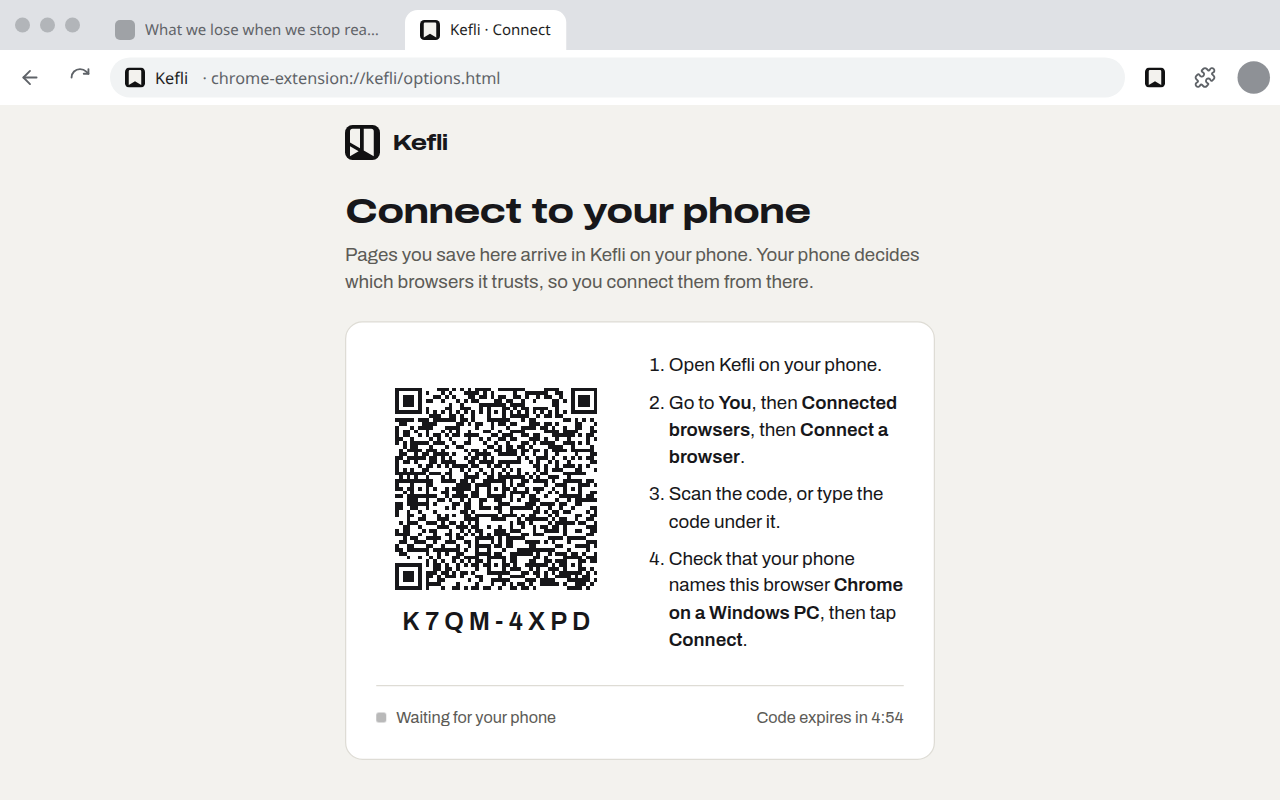
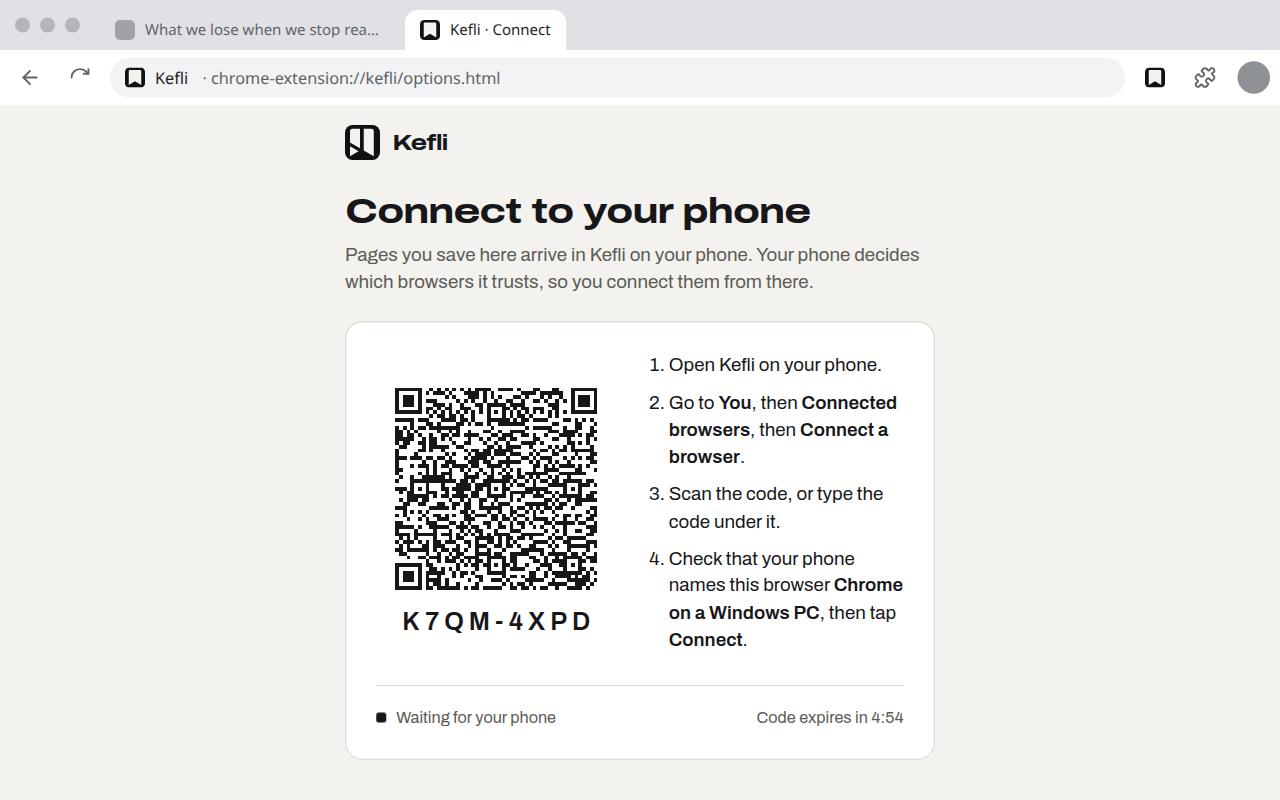
Edge versions of the store screenshots, and a screenshot script that can't hang
store-screenshots.mjs --edge draws the four shots with Edge's details: the
extension:// address, Edge on a Windows PC, and Edge's link menu. Each tab
now comes to the front at once, every animation is finished and the
mockup's timers stopped before the capture, and a shot that hangs is
taken again in a fresh Chrome. That replaces Firefox's 1-saved.png, which
had caught the toast mid-fade, and the QR shots now use fixed throwaway
values, so a run makes the same images as the last.

Changed region(s): [[0.375, 0.4688, 0.4375, 0.75], [0.3125, 0.5, 0.375, 0.75], [0.2812, 0.875, 0.3125, 0.9062]]

diff --git a/docs/store/edge-add-ons.md b/docs/store/edge-add-ons.md
@@ -50,7 +50,7 @@ Every answer is the Chrome Web Store's (`chrome-web-store.md`, Privacy tab), wor
 
 **Large promotional tile** (1400 × 560): optional, and none yet.
 
-**Screenshots** (up to six, 1280 × 800): the Chrome set in `docs/store/screenshots/`, in order. They show `chrome-extension://` and "Chrome on a Windows PC", where Edge says `extension://` and its phone label reads "Edge on a Windows PC" (`browserLabel`, `src/pair.ts`); Edge versions would be the Firefox treatment in `apps/extension/scripts/store-screenshots.mjs` with Edge's wording.
+**Screenshots** (up to six, 1280 × 800): the four in `docs/store/screenshots/edge/`, in order: `1-saved.png`, `2-save-link.png`, `3-connect.png` and `4-connected.png`. They're the Chrome set with Edge's details: the `extension://` address, "Edge on a Windows PC" (`browserLabel`, `src/pair.ts`), and Edge's link menu ("Open link in InPrivate window", "Copy link"); Edge runs the Chrome build, so its item reads "Save link to Kefli". Make them again with `node apps/extension/scripts/store-screenshots.mjs --edge` after a dev build.
 
 **YouTube video URL:** none.
 
